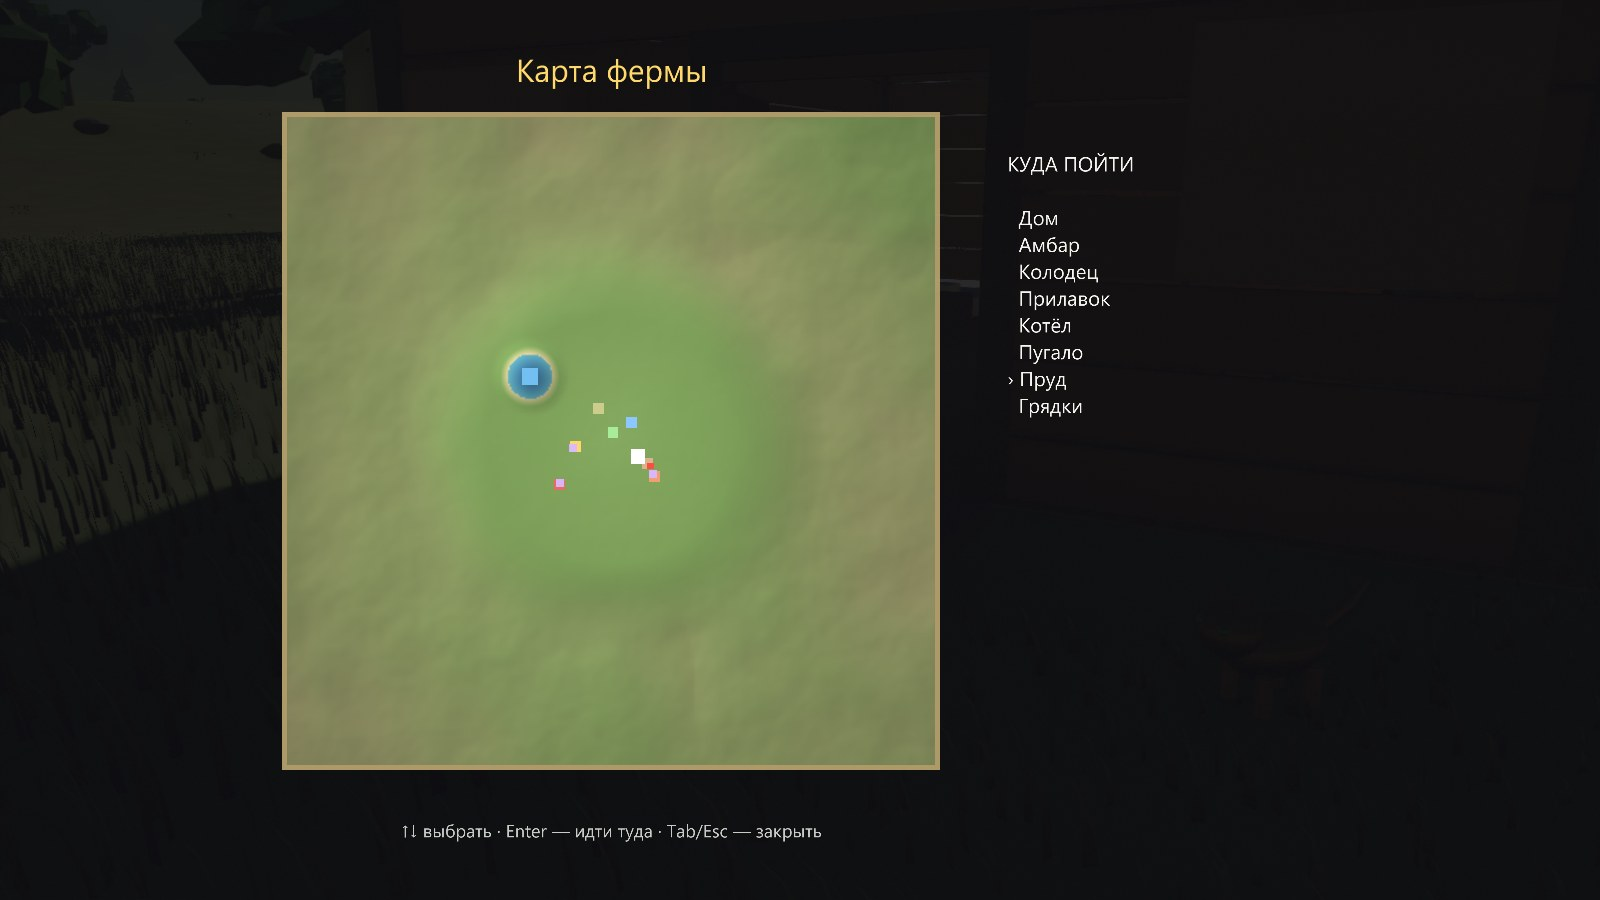
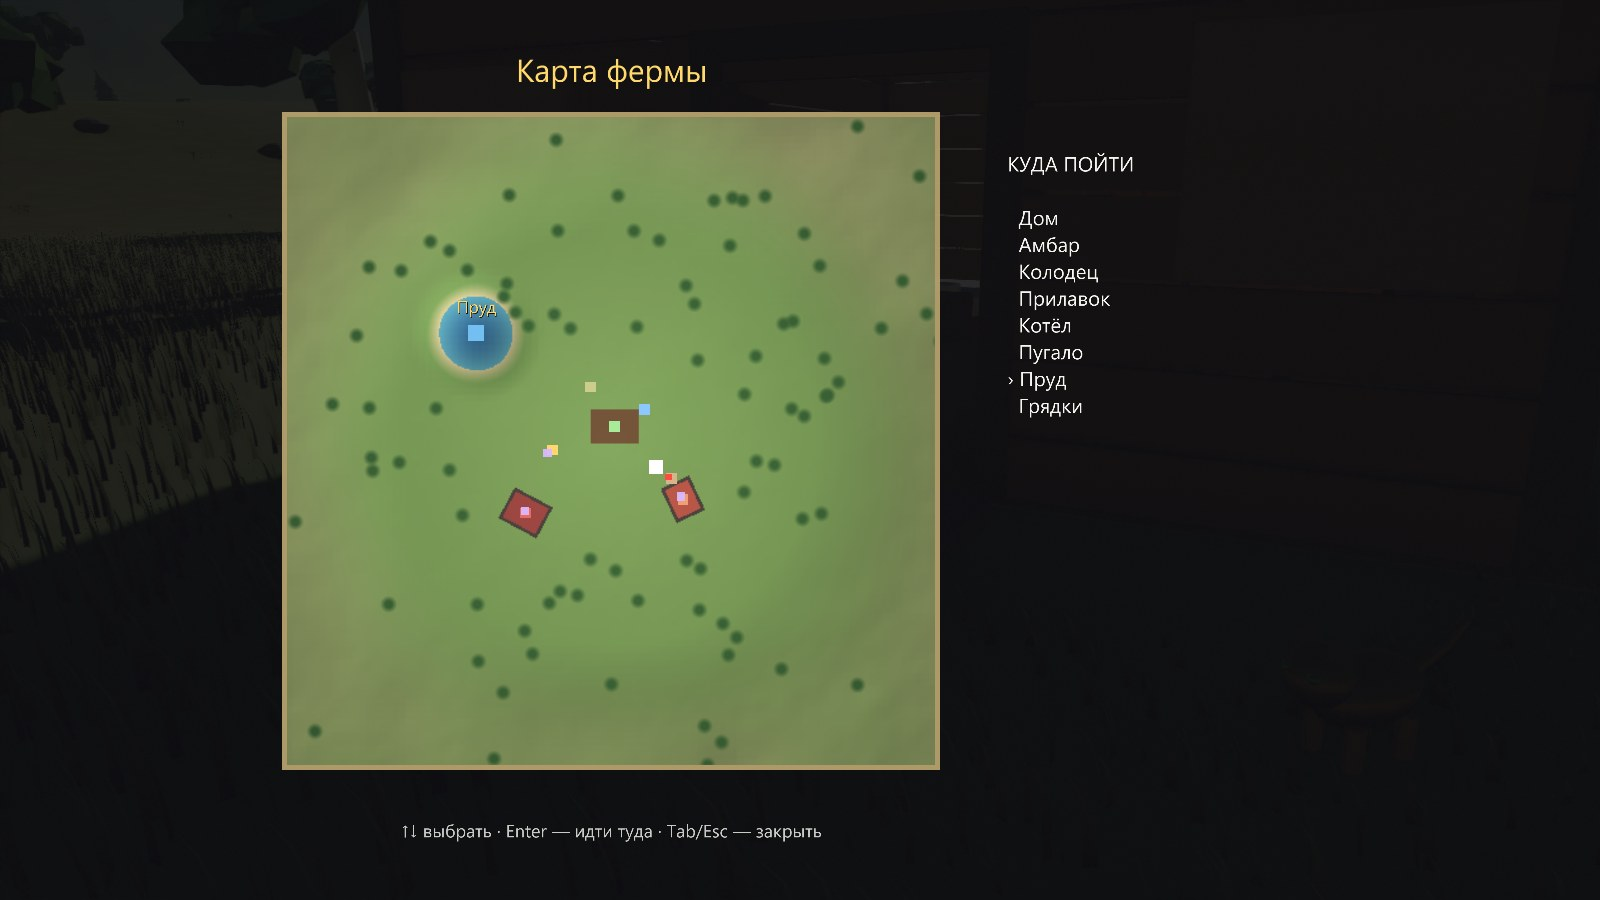
The map now draws the world it is a map of
Rendered the tutorial at all ten steps, the reel bar mid-fight, and the HUD at
extreme values, then looked at them.

The map was the worst of it. MAP_EXTENT was 120 metres — a 240-metre square, of
which the farm occupies about forty. The rest was empty meadow, so the buildings
came out as a knot of eight-pixel squares in the middle and the pond as a dot.
It was also shaded from the height field alone, which meant it drew terrain and
nothing else: no wood, no buildings, no beds.

It now stamps what the world was actually built from — every tree in props.trees
(the list added for the soundscape), both buildings as rotated footprints in
their own frames, and the vegetable beds — onto the same height-field shading, at
72 metres and 512 pixels. The selected landmark writes its name on the map, since
eight identical coloured squares never said which was which.

The tutorial panel had a fixed height and a hint that wraps to two lines on four
of the ten steps. The second line fell outside the panel and sat on the trees.
The frame is now sized from the row count.

Both checks were wrong on the first attempt and both passed against the broken
code — a check that cannot fail is worse than none. The map one counted coloured
pixels, and bare hillside is reddish enough to satisfy it; it now reads the pixel
at the house, the barn, the pond, and a known tree against open ground beside it.
The tutorial one trusted Panda's text bounds, which under-report a wrapped block
[…]

diff --git a/patisson2/ui/worldmap.py b/patisson2/ui/worldmap.py
@@ -15,12 +15,14 @@ from direct.gui.OnscreenImage import OnscreenImage
 from direct.gui.OnscreenText import OnscreenText
 from panda3d.core import SamplerState, TextNode, Texture, TransparencyAttrib
 
-from ..world.layout import LAYOUT
+from ..world.layout import (BUILDING_SHAPES, LAYOUT, PLOT_COLS, PLOT_ORIGIN,
+                            PLOT_ROWS, PLOT_SPACING)
 from ..world.terrain import POND_CENTRE
 
-MAP_RES = 384
-# Half-width of the area drawn, in metres. The farm and its woods, not the rim.
-MAP_EXTENT = 120.0
+MAP_RES = 512
+# Half-width of the area drawn, in metres. At 120 the farm was a thumbnail in
+# the middle of an empty meadow: everything a player needs is inside 70 m.
+MAP_EXTENT = 72.0
 
 INK = (0.96, 0.96, 0.94, 1)
 DIM = (0.78, 0.80, 0.78, 1)
@@ -57,7 +59,52 @@ MARKER_COLOURS = {
 TRAVEL_SPEED = 3.4
 
 
-def build_map_texture(terrain, cfg) -> Texture:
+def _px(v: float) -> float:
+    """World metres -> pixel coordinate in the map image."""
+    return (v + MAP_EXTENT) / (2.0 * MAP_EXTENT) * (MAP_RES - 1)
+
+
+def _stamp_disc(rgb, x: float, y: float, radius: float, colour, softness=0.6):
+    """Paint a soft disc of world-space radius at a world-space point."""
+    cx, cy = _px(x), _px(y)
+    r = radius / (2.0 * MAP_EXTENT) * (MAP_RES - 1)
+    lo_x, hi_x = int(max(0, cx - r - 1)), int(min(MAP_RES, cx + r + 2))
+    lo_y, hi_y = int(max(0, cy - r - 1)), int(min(MAP_RES, cy + r + 2))
+    if lo_x >= hi_x or lo_y >= hi_y:
+        return
+    gx = np.arange(lo_x, hi_x)[:, None] - cx
+    gy = np.arange(lo_y, hi_y)[None, :] - cy
+    d = np.sqrt(gx * gx + gy * gy)
+    a = np.clip((r - d) / max(r * softness, 0.75), 0.0, 1.0)[..., None]
+    patch = rgb[lo_x:hi_x, lo_y:hi_y]
+    rgb[lo_x:hi_x, lo_y:hi_y] = patch * (1 - a) + np.array(colour, np.float32) * a
+
+
+def _stamp_rect(rgb, x: float, y: float, w: float, d: float, heading: float,
+                colour):
+    """Paint a rotated rectangle — a building footprint."""
+    a = math.radians(heading)
+    ca, sa = math.cos(a), math.sin(a)
+    span = (abs(w * ca) + abs(d * sa) + abs(w * sa) + abs(d * ca)) / 2.0
+    cx, cy = _px(x), _px(y)
+    r = span / (2.0 * MAP_EXTENT) * (MAP_RES - 1)
+    lo_x, hi_x = int(max(0, cx - r - 1)), int(min(MAP_RES, cx + r + 2))
+    lo_y, hi_y = int(max(0, cy - r - 1)), int(min(MAP_RES, cy + r + 2))
+    if lo_x >= hi_x or lo_y >= hi_y:
+        return
+    scale = (2.0 * MAP_EXTENT) / (MAP_RES - 1)
+    wx = (np.arange(lo_x, hi_x)[:, None] - cx) * scale
+    wy = (np.arange(lo_y, hi_y)[None, :] - cy) * scale
+    # Into the building's own frame, the way props place their furniture.
+    lx = wx * ca + wy * sa
+    ly = -wx * sa + wy * ca
+    inside = (np.abs(lx) <= w / 2.0) & (np.abs(ly) <= d / 2.0)
+    patch = rgb[lo_x:hi_x, lo_y:hi_y]
+    rgb[lo_x:hi_x, lo_y:hi_y] = np.where(inside[..., None],
+                                         np.array(colour, np.float32), patch)
+
+
+def build_map_texture(terrain, cfg, props=None) -> Texture:
     """Shade the height field into a paper-map image."""
     res = MAP_RES
     xs = np.linspace(-MAP_EXTENT, MAP_EXTENT, res)
@@ -109,6 +156,26 @@ def build_map_texture(terrain, cfg) -> Texture:
     rgb = np.where(land[..., None], ground, rgb)
     rgb *= shade[..., None]
 
+    # The height field alone draws a bare meadow. Everything a player uses to
+    # find their way — the wood, the buildings, the beds — is props data, and
+    # stamping it here keeps the map honest: it is the same list the world was
+    # built from, not a second drawing that can drift out of step.
+    if props is not None:
+        for tx, ty, _tz in getattr(props, "trees", ()):
+            _stamp_disc(rgb, tx, ty, 1.9, (0.24, 0.40, 0.22))
+        ox, oy = PLOT_ORIGIN
+        _stamp_rect(rgb, ox + (PLOT_COLS - 1) * PLOT_SPACING / 2.0,
+                    oy + (PLOT_ROWS - 1) * PLOT_SPACING / 2.0,
+                    (PLOT_COLS - 1) * PLOT_SPACING + 3.2,
+                    (PLOT_ROWS - 1) * PLOT_SPACING + 3.2, 0.0,
+                    (0.44, 0.32, 0.22))
+        for name, (w, d, _door) in BUILDING_SHAPES.items():
+            bx, by, bh = LAYOUT[name]
+            _stamp_rect(rgb, bx, by, w + 0.6, d + 0.6, bh, (0.30, 0.26, 0.24))
+            _stamp_rect(rgb, bx, by, w - 0.8, d - 0.8, bh,
+                        (0.72, 0.34, 0.28) if name == "house"
+                        else (0.62, 0.28, 0.26))
+
     # A soft parchment vignette so it reads as a drawing, not a data plot.
     yy, xx = np.mgrid[0:res, 0:res]
     r = np.sqrt(((xx / res) - 0.5) ** 2 + ((yy / res) - 0.5) ** 2)
@@ -136,7 +203,7 @@ class WorldMap:
 
     SIZE = 0.72          # half-height on screen, in aspect2d units
 
-    def __init__(self, base, hud, world, cfg):
+    def __init__(self, base, hud, world, cfg, props=None):
         self.base = base
         self.hud = hud
         self.world = world
@@ -145,7 +212,7 @@ class WorldMap:
         self.cursor = 0
         self.landmarks = _landmarks()
 
-        self.texture = build_map_texture(world.terrain, cfg)
+        self.texture = build_map_texture(world.terrain, cfg, props)
 
         self.root = base.aspect2d.attachNewNode("worldmap")
         self.root.hide()
@@ -184,6 +251,13 @@ class WorldMap:
                             frameSize=(-0.012, 0.012, -0.012, 0.012))
             m.setBin("fixed", 3)
             self.marks.append(m)
+        # Eight identical squares told you nothing about which was which. The
+        # selected one says its name on the map, next to the list.
+        self.mark_label = OnscreenText(text="", pos=(0, 0), scale=0.038, fg=GOLD,
+                                       font=hud.font, align=TextNode.ACenter,
+                                       parent=self.root, mayChange=True,
+                                       shadow=(0, 0, 0, 0.85))
+        self.mark_label.setBin("fixed", 5)
 
         self.npc_marks = [
             DirectFrame(parent=self.root, frameColor=(0.85, 0.72, 1.0, 0.95),
@@ -247,11 +321,16 @@ class WorldMap:
     def update(self, player_pos, player_heading: float, villagers) -> None:
         if not self.visible:
             return
-        for i, (_label, (x, y), _kind) in enumerate(self.landmarks):
+        for i, (label, (x, y), _kind) in enumerate(self.landmarks):
             sx, sy = self._to_screen(x, y)
             self.marks[i].setPos(sx, 0, sy)
             scale = 1.55 if i == self.cursor else 1.0
             self.marks[i].setScale(scale)
+            if i == self.cursor:
+                # Above the marker, unless that would run off the top edge.
+                up = sy + 0.045 < 0.02 + self.SIZE - 0.03
+                self.mark_label.setText(label)
+                self.mark_label.setPos(sx, sy + (0.045 if up else -0.075))
 
         for i, npc in enumerate(villagers.npcs[:len(self.npc_marks)]):
             p = npc.node.getPos()

diff --git a/patisson2/tools/smoke.py b/patisson2/tools/smoke.py
@@ -248,6 +248,64 @@ def run() -> int:
         menu._build_root()
     check("вёрстка меню", menu_layout)
 
+    def tutorial_panel():
+        """Every step's hint must be shorter than the panel it is drawn on.
+
+        Four of the ten hints wrap to a second line, which used to hang below
+        the panel over the scenery. Panda's own text bounds under-report a
+        wrapped block, so this measures the panel against the row count.
+        """
+        from ..game.tutorial import STEPS
+        app.tutorial.active = True
+        seen = set()
+        for i in range(len(STEPS) + 1):
+            app.tutorial.index = i
+            app.hud._update_tutorial()
+            app.taskMgr.step()
+            hint = app.hud.tutor_hint
+            rows = hint.textNode.getNumRows()
+            seen.add(rows)
+            need = -0.122 - rows * hint.getScale()[0] * 1.25
+            bottom = app.hud.tutor_panel["frameSize"][2]
+            assert bottom <= need + 0.011, (
+                f"шаг {i}: {rows} строк(и) не помещаются "
+                f"({bottom:.3f} > {need:.3f})")
+        assert max(seen) > 1, "ни одна подсказка не переносится — проверка пустая"
+    check("панель обучения", tutorial_panel)
+
+    def map_texture():
+        """Specific places on the map must look like what stands there.
+
+        The map used to be shaded from the height field alone: a smooth green
+        field with the farm as a thumbnail in the middle of it. Counting
+        coloured pixels is not enough to catch that — bare hillside is reddish
+        too — so this reads the pixel at each landmark.
+        """
+        import numpy as np
+        from ..ui.worldmap import _px
+        from ..world.layout import LAYOUT
+        from ..world.terrain import POND_CENTRE
+        tex = app.worldmap.texture
+        data = np.frombuffer(tex.getRamImage().getData(), np.uint8)
+        data = data.reshape(tex.getYSize(), tex.getXSize(), 4)
+
+        def at(x, y):                       # texture rows are y, columns x
+            b, g, r, _a = data[int(_px(y)), int(_px(x))]
+            return int(r), int(g), int(b)
+
+        for name in ("house", "barn"):
+            bx, by, _h = LAYOUT[name]
+            r, g, b = at(bx, by)
+            assert r > g + 55 and r > 120, f"{name} не нарисован: rgb {r},{g},{b}"
+        r, g, b = at(*POND_CENTRE)
+        assert b > r + 40, f"пруд не нарисован: rgb {r},{g},{b}"
+        # A tree, and open ground two metres to its side, must differ.
+        tx, ty, _tz = app.props.trees[0]
+        tr, tg, tb = at(tx, ty)
+        orr, og, ob = at(tx + 6.0, ty + 6.0)
+        assert tg < og - 12, f"лес не нарисован: дерево {tg} vs поле {og}"
+    check("карта нарисована", map_texture)
+
     # --- sleeping, saving, loading ---------------------------------------
     check("сон", lambda: (setattr(app.player.pos, "x", app.props.bed_pos[0]),
                           setattr(app.player.pos, "y", app.props.bed_pos[1]),

diff --git a/patisson2/ui/hud.py b/patisson2/ui/hud.py
@@ -516,6 +516,11 @@ class HUD:
             self._set(self.tutor_head, f"ОБУЧЕНИЕ  {done}/{total}")
             self._set(self.tutor_title, step.title)
             self._set(self.tutor_hint, step.hint)
+        # Four of the ten hints wrap to two lines, and the second line used to
+        # hang below the panel over the scenery. Grow the frame to the text.
+        rows = self.tutor_hint.textNode.getNumRows()
+        bottom = -0.122 - rows * 0.036 * 1.25 + 0.010
+        self.tutor_panel["frameSize"] = (-0.02, 0.86, bottom, 0.055)
 
     def _update_fishing(self):
         """Draw the reel bar: a sweeping marker and the band to stop it in."""

diff --git a/patisson2/app.py b/patisson2/app.py
@@ -132,7 +132,8 @@ class PatissonApp(ShowBase):
         self.paused = False
         self.fishing = Fishing(random.Random(self.cfg.world.seed ^ 0xF15))
         self.photo_mode = False
-        self.worldmap = WorldMap(self, self.hud, self.world, self.cfg.world)
+        self.worldmap = WorldMap(self, self.hud, self.world, self.cfg.world,
+                                 self.props)
         self.options = OptionsScreen(self, self.hud)
         self.tutorial = Tutorial()
         self._walked = 0.0
